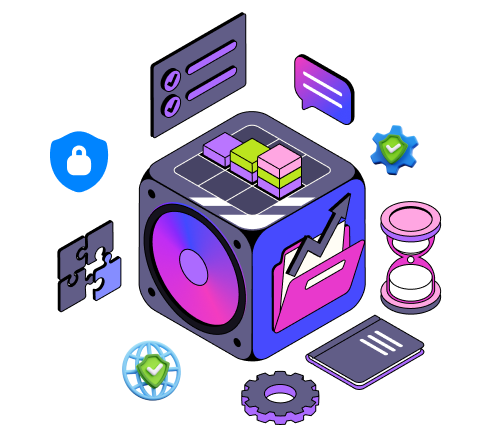
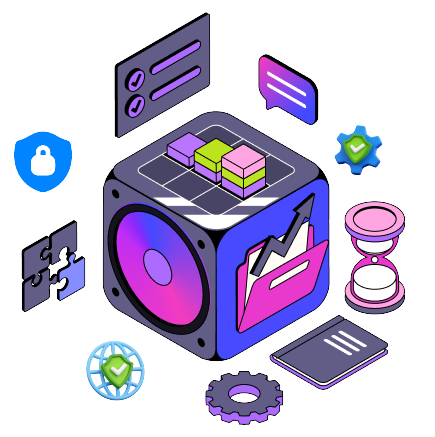
working on responsive

Changed region(s): [[0.0299, 0.0297, 0.9563, 0.9817], [0.5678, 0.119, 0.7471, 0.2975], [0.7172, 0.2677, 0.8966, 0.4165]]

diff --git a/index.html b/index.html
@@ -222,7 +222,7 @@
         <div class="flex justify-between">
           <div class="relative">
             <img
-              class="relative"
+              class="relative scale-down"
               src="./assests/icons/border.svg"
               alt="border"
             />
@@ -256,7 +256,7 @@
           </div>
           <div class="relative">
             <img
-              class="relative"
+              class="relative scale-down"
               src="./assests/icons/border.svg"
               alt="border"
             />
@@ -291,7 +291,7 @@
           </div>
           <div class="relative">
             <img
-              class="relative"
+              class="relative scale-down"
               src="./assests/icons/border.svg"
               alt="border"
             />
@@ -670,7 +670,7 @@
                 </div>
                 <div class="flex items-center">
                     <h3 class="text-xxl font-sora text-white">$</h3>
-                    <h3 class="text-xxl font-sora text-white font-medium price">0</h3>
+                    <h3 class="font-sora text-white font-medium price">0</h3>
                 </div>  
                 <div class="relative">
                     <button
@@ -708,7 +708,7 @@
                 </div>
                 <div class="flex items-center">
                     <h3 class="text-xxl font-sora text-white">$</h3>
-                    <h3 class="text-xxl font-sora text-white font-medium price">9.99</h3>
+                    <h3 class="font-sora text-white font-medium price">9.99</h3>
                 </div>  
          
                     <button
@@ -741,14 +741,14 @@
                 </div>
             </div>
             <!-- card three -->
-            <div class="pricing-card flex flex-column">
+            <div  class="pricing-card flex flex-column">
                 <div class="flex flex-column">
                     <h3 class="text-white font-sora pricing-title">Enterprise</h3>
                     <p class="text-lg">AI chatbot, personalized <br> recommendations</p>
                 </div>
                 <div class="flex items-center">
                     <h3 class="text-xxl font-sora text-white">$</h3>
-                    <h3 class="text-xxl font-sora text-white font-medium price">20.99</h3>
+                    <h3 class="font-sora text-white font-medium price">20.99</h3>
                 </div>  
                 <div class="relative">
                     <button
@@ -783,8 +783,8 @@
           <div class="svg-container-two price-svg"></div>
           <!-- svg decoration -->
           <!-- <div class="absolute earth-svg"><img src="./assests/icons/earth.svg" alt="earth"></div>
-          <div class="absolute planet-purple"><img src="./assests/icons/planet-purple.svg" alt="planet"></div> -->
-          <!-- <div class="absolute planet-red"><img src="./assests/icons/planet-red.svg" alt="planet"></div> -->
+          <div class="absolute planet-purple"><img src="./assests/icons/planet-purple.svg" alt="planet"></div>
+         <div class="absolute planet-red"><img src="./assests/icons/planet-red.svg" alt="planet"></div> -->
       </section>
       <!-- review section -->
       <section class="vector-container service-container relative">

diff --git a/css/styles.css b/css/styles.css
@@ -392,8 +392,8 @@ img {
   padding: 10px 6px;
 }
 .card-gradiant {
-  width: 242px;
-  height: 242px;
+  width: 60%;
+  height: 60%;
   background: linear-gradient(128deg, #0f1eff, #0064ff);
   filter: blur(60px);
   opacity: 0.4;
@@ -640,6 +640,7 @@ img {
     )
   );
   padding: 32px;
+  width: 100%;
 }
 .pricing-title {
   font-size: 32px;
@@ -650,7 +651,8 @@ img {
   font-size: 88px;
 }
 .price-button {
-  padding: 15px 136px;
+  padding: 15px 0px;
+  width: 100%;
 }
 .checkmark-container {
   padding: 20px 0px;
@@ -733,8 +735,8 @@ img {
 }
 .buttons {
   top: 60%;
-  width: 103.5%;
-  left: -20px;
+  width: 100%;
+  /* left: -20px; */
 }
 .dots {
   margin: 0px;
@@ -835,8 +837,79 @@ img {
     transform: rotate(360deg);
   }
 }
-/* *,
+*,
 ::after,
 ::before {
   border: 1px solid red;
-} */
+}
+@media only screen and (max-width: 600px) {
+}
+@media only screen and (min-width: 601px) and (max-width: 767px) {
+}
+@media only screen and (min-width: 768px) and (max-width: 991px) {
+}
+@media only screen and (min-width: 992px) and (max-width: 1199px) {
+  .vector-container {
+    max-width: 90%;
+  }
+  .service-container {
+    padding-top: 100px;
+    padding-bottom: 50px;
+}
+  .text-xxxl {
+    font-size: 48px;
+  }
+  .title-line {
+    right: 28%;
+    width: 22%;
+  }
+  .text-xl {
+    font-size: 20px;
+  }
+  .title-container {
+    padding: 5px 28px;
+  }
+  .logo-image-div {
+    width: 40%;
+  }
+  .card {
+    padding: 8px;
+    transform: scale(.7);
+    top: -5%;
+}
+.scale-down{
+  scale: 0.9;
+}
+.text-lg{
+  font-size: 16px;
+}
+.card-dsc {
+  line-height: 140%;
+  margin: 10px 0px ;
+}
+.card-gradiant{
+  height: 50%;
+  width: 40%;
+}
+.join-us-contaier{
+  padding-top: 0px;
+}
+.join-us-line {
+  left: 33%;
+}
+.pricing-title {
+  font-size: 24px;
+}
+.price{
+  font-size: 44px;
+}
+.text-xxl{
+  font-size: 30px;
+}
+.price-button {
+  padding: 7px 0px;
+}
+.testimonial-div{
+  max-width: 81.7vw;
+}
+}
